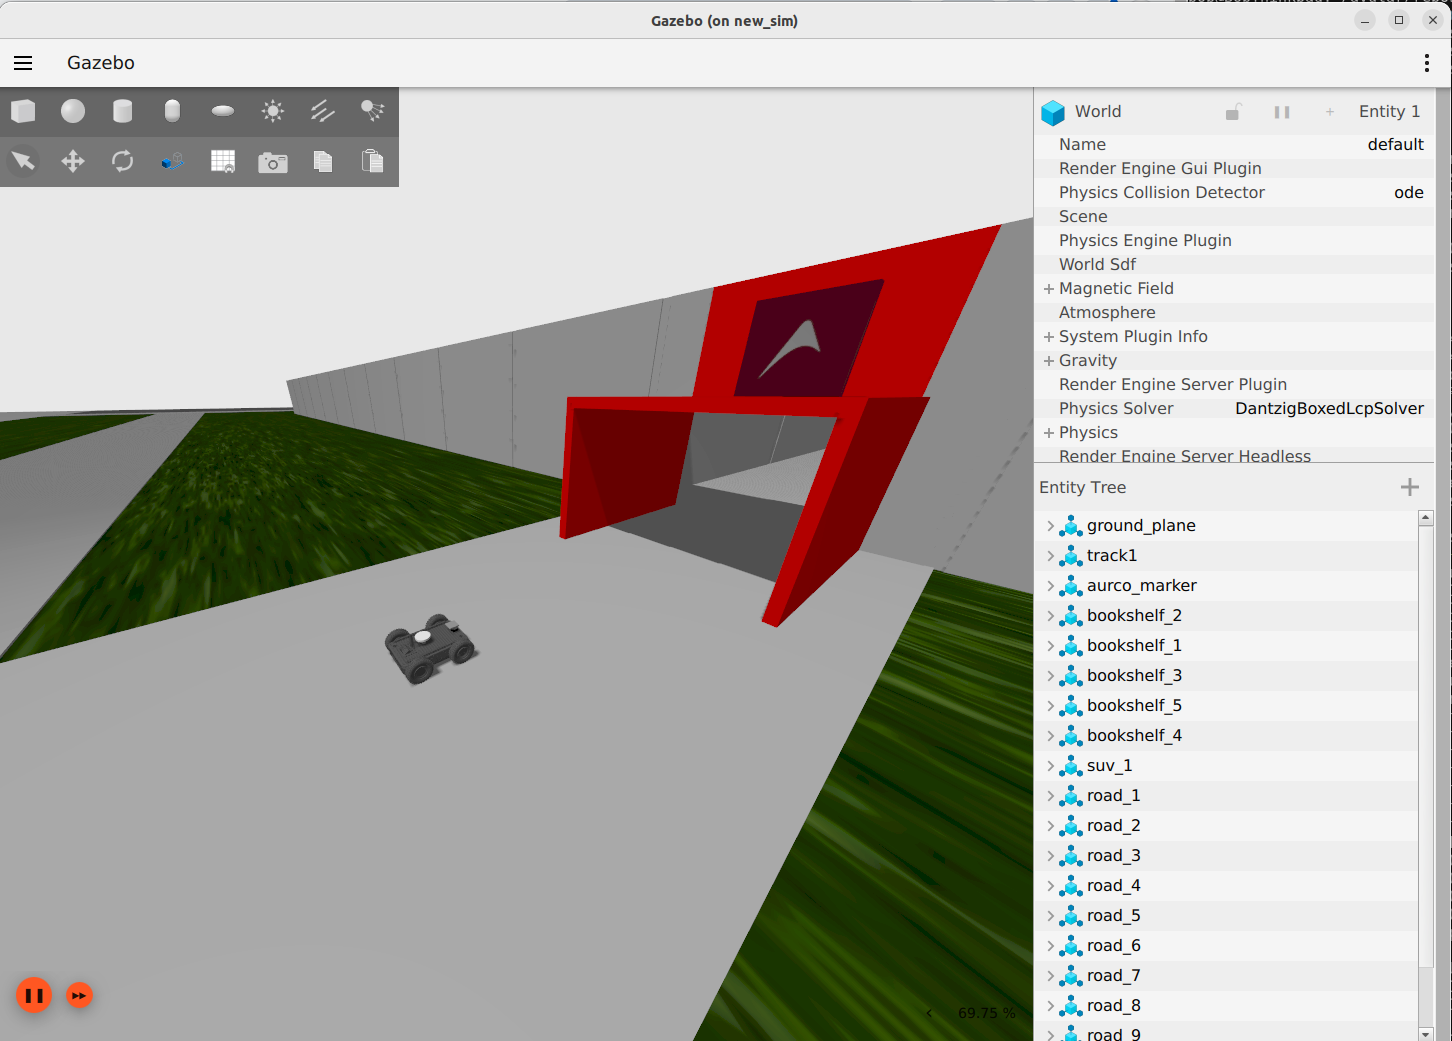
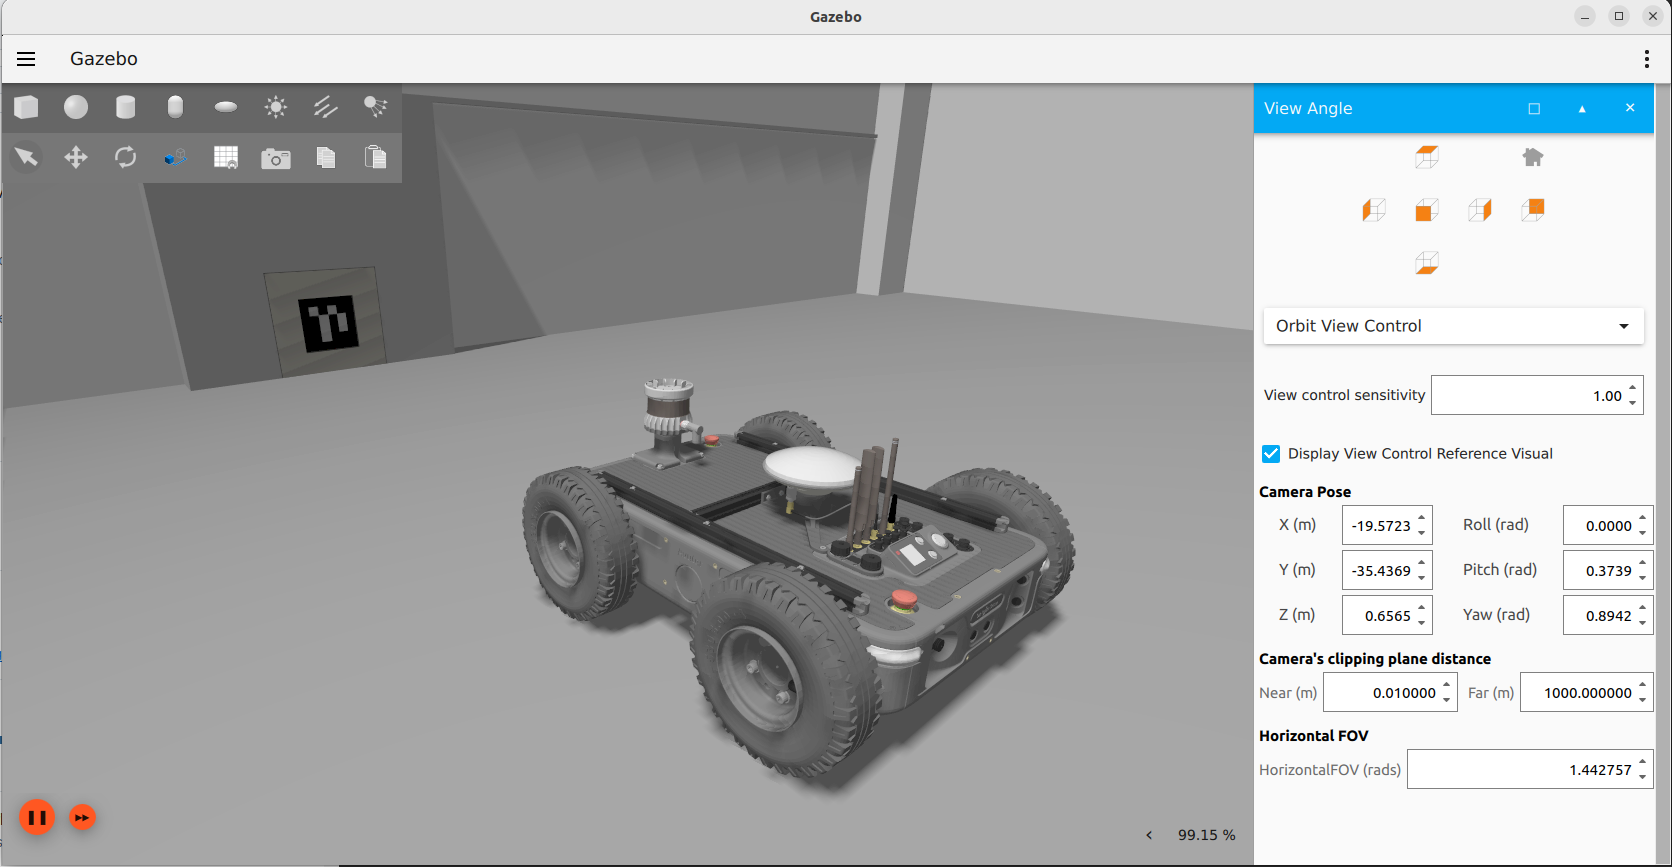
feat(mecanum): Add drive_configuration launch variable and parse xacro in launch file

diff --git a/origin_one_gazebo/launch/origin_sim_common.launch.py b/origin_one_gazebo/launch/origin_sim_common.launch.py
@@ -10,15 +10,19 @@
 import os
 from launch import LaunchDescription
 from launch.substitutions import LaunchConfiguration, PathJoinSubstitution
+from launch_ros.substitutions import FindPackageShare
 from launch_ros.actions import Node
 from launch.conditions import IfCondition, UnlessCondition
 from launch.actions import (
     ExecuteProcess,
     DeclareLaunchArgument,
     IncludeLaunchDescription,
+    OpaqueFunction,
+    SetLaunchConfiguration
 )
 from ament_index_python.packages import get_package_share_directory
 from launch.launch_description_sources import PythonLaunchDescriptionSource
+import xacro
 
 
 def generate_launch_description():
@@ -27,6 +31,7 @@ def generate_launch_description():
     ld.add_action(DeclareLaunchArgument("headless", default_value="false"))
     ld.add_action(DeclareLaunchArgument("spawn", default_value="true"))
     ld.add_action(DeclareLaunchArgument("world", default_value="TY_test_area.world"))
+    ld.add_action(DeclareLaunchArgument("drive_configuration", default_value="skid_steer_drive"))
     ld.add_action(
         DeclareLaunchArgument(
             "bridge_config", default_value="gazebo_ros_bridge_topics.yaml"
@@ -42,6 +47,7 @@ def generate_launch_description():
     ros_gz_sim = get_package_share_directory("ros_gz_sim")
     pkg_dir = get_package_share_directory("origin_one_gazebo")
     pkg_dir_origin_description = get_package_share_directory("origin_one_description")
+    xacro_file_path = "urdf/origin_one.urdf.xacro"
 
     os.environ["IGN_GAZEBO_RESOURCE_PATH"] = (
         os.path.join(pkg_dir, "models")
@@ -74,6 +80,15 @@ def generate_launch_description():
         [pkg_dir_origin_description, "urdf", "origin_one.urdf"]
     )
 
+    # Function to create the URDF description from the Xacro file
+    def create_urdf_description(context):
+        xacro_file = os.path.join(FindPackageShare("origin_one_description").find("origin_one_description"), xacro_file_path)
+        drive_configuration = LaunchConfiguration('drive_configuration').perform(context)
+        urdf = xacro.process_file(xacro_file, mappings={"drive_configuration": drive_configuration}).toxml()
+        return [SetLaunchConfiguration('urdf', urdf)]
+
+    ld.add_action(OpaqueFunction(function=create_urdf_description))
+    
     ld.add_action(
         Node(
             package="ros_gz_sim",
@@ -81,8 +96,8 @@ def generate_launch_description():
             arguments=[
                 "-name",
                 "Robot",
-                "-file",
-                sdf_file_path,
+                "-string",
+                LaunchConfiguration("urdf"),
                 "-x",
                 LaunchConfiguration("robot_pose_x"),
                 "-y",

diff --git a/origin_one_gazebo/launch/ty_test_area.launch.py b/origin_one_gazebo/launch/ty_test_area.launch.py
@@ -9,11 +9,12 @@
 
 from launch import LaunchDescription
 from launch.actions import (
+    DeclareLaunchArgument,
     IncludeLaunchDescription,
     SetLaunchConfiguration,
 )
 from launch.launch_description_sources import PythonLaunchDescriptionSource
-from launch.substitutions import PathJoinSubstitution
+from launch.substitutions import PathJoinSubstitution, LaunchConfiguration
 from launch_ros.substitutions import FindPackageShare
 
 
@@ -24,6 +25,9 @@ def generate_launch_description():
     robot_pose_x = SetLaunchConfiguration("robot_pose_x", "-18.75")
     robot_pose_y = SetLaunchConfiguration("robot_pose_y", "-34.8")
     robot_pose_yaw = SetLaunchConfiguration("robot_pose_yaw", "1.57")
+
+    drive_configuration = DeclareLaunchArgument(
+        "drive_configuration", default_value="skid_steer_drive")
 
     launch_origin_common = IncludeLaunchDescription(
         PythonLaunchDescriptionSource(
@@ -36,7 +40,10 @@ def generate_launch_description():
                     ]
                 )
             ]
-        )
+        ),
+        launch_arguments={
+            "drive_configuration": LaunchConfiguration("drive_configuration")
+        }.items(),
     )
 
     return LaunchDescription(
@@ -45,6 +52,7 @@ def generate_launch_description():
             robot_pose_x,
             robot_pose_y,
             robot_pose_yaw,
+            drive_configuration,
             launch_origin_common,
         ]
     )

diff --git a/README.md b/README.md
@@ -27,7 +27,8 @@ cd avular_origin_description
 git lfs pull
 ```
 
-Finally, we need to install debian packages for the cmd_vel_controller, which the Origin One uses to prioritize various control command inputs.
+Finally, we can install debian packages for the cmd_vel_controller, which the real Origin One robot uses to prioritize various control command inputs.
+This step is optional, but recommended if you want the simulation to behave similar to the real robot, or if you want to use Avular example code. 
 To do so, go to the `cmd_vel_controller` folder in this repository and use `apt` to install the binary packages:
 
 ```
@@ -48,7 +49,13 @@ You can now source the workspace (so ROS knows where to find the packages) and l
 source install/setup.bash
 ros2 launch origin_one_gazebo ty_test_area.launch.py use_cmd_vel_controller:=True
 ```
+Note that you can set `use_cmd_vel_controller` to `False` if you don't want to use the cmd_vel_controller package.
+Alternatively, the simulation can also be launched with the mecanum wheel configuration on the robot:
+```
+ros2 launch origin_one_gazebo ty_test_area.launch.py use_cmd_vel_controller:=True drive_configuration:=mecanum_drive
+```
 This will show the avular simulation environment in Gazebo Fortress, with the Origin One spawned.
+You can now drag to mouse to change the view to the robot model.
 If you want to launch the simulation without sourcing each time, you can source the setup file in your bashrc:
 ```
 echo "source <path_to_workspace>/install/setup.bash" >> ~/.bashrc
